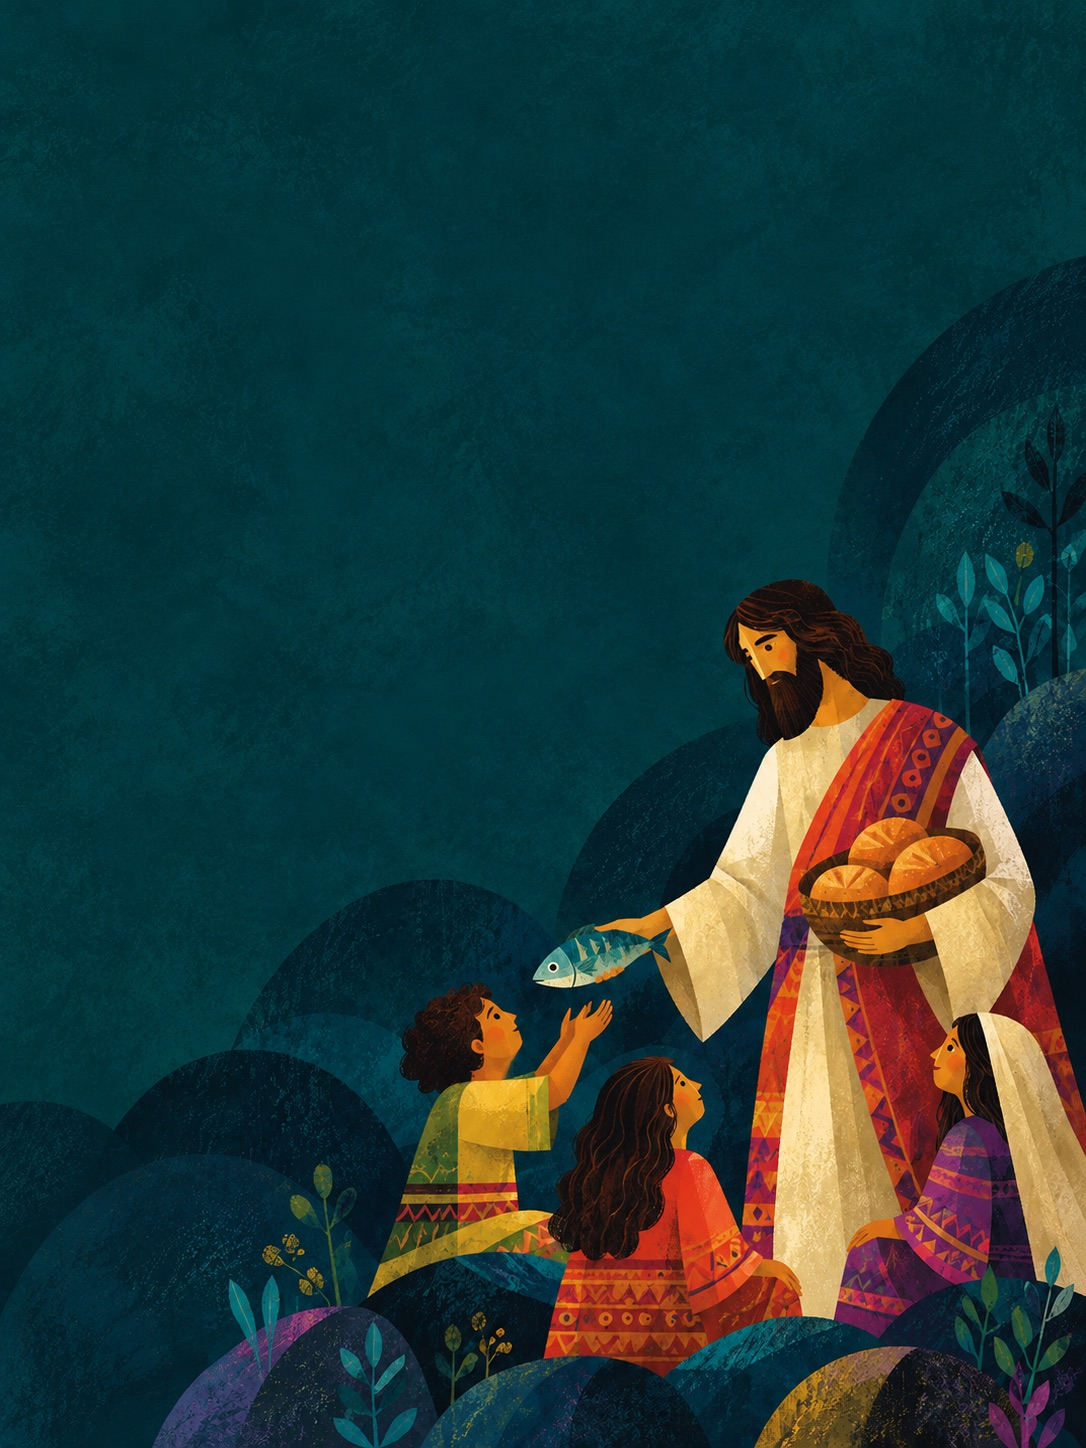
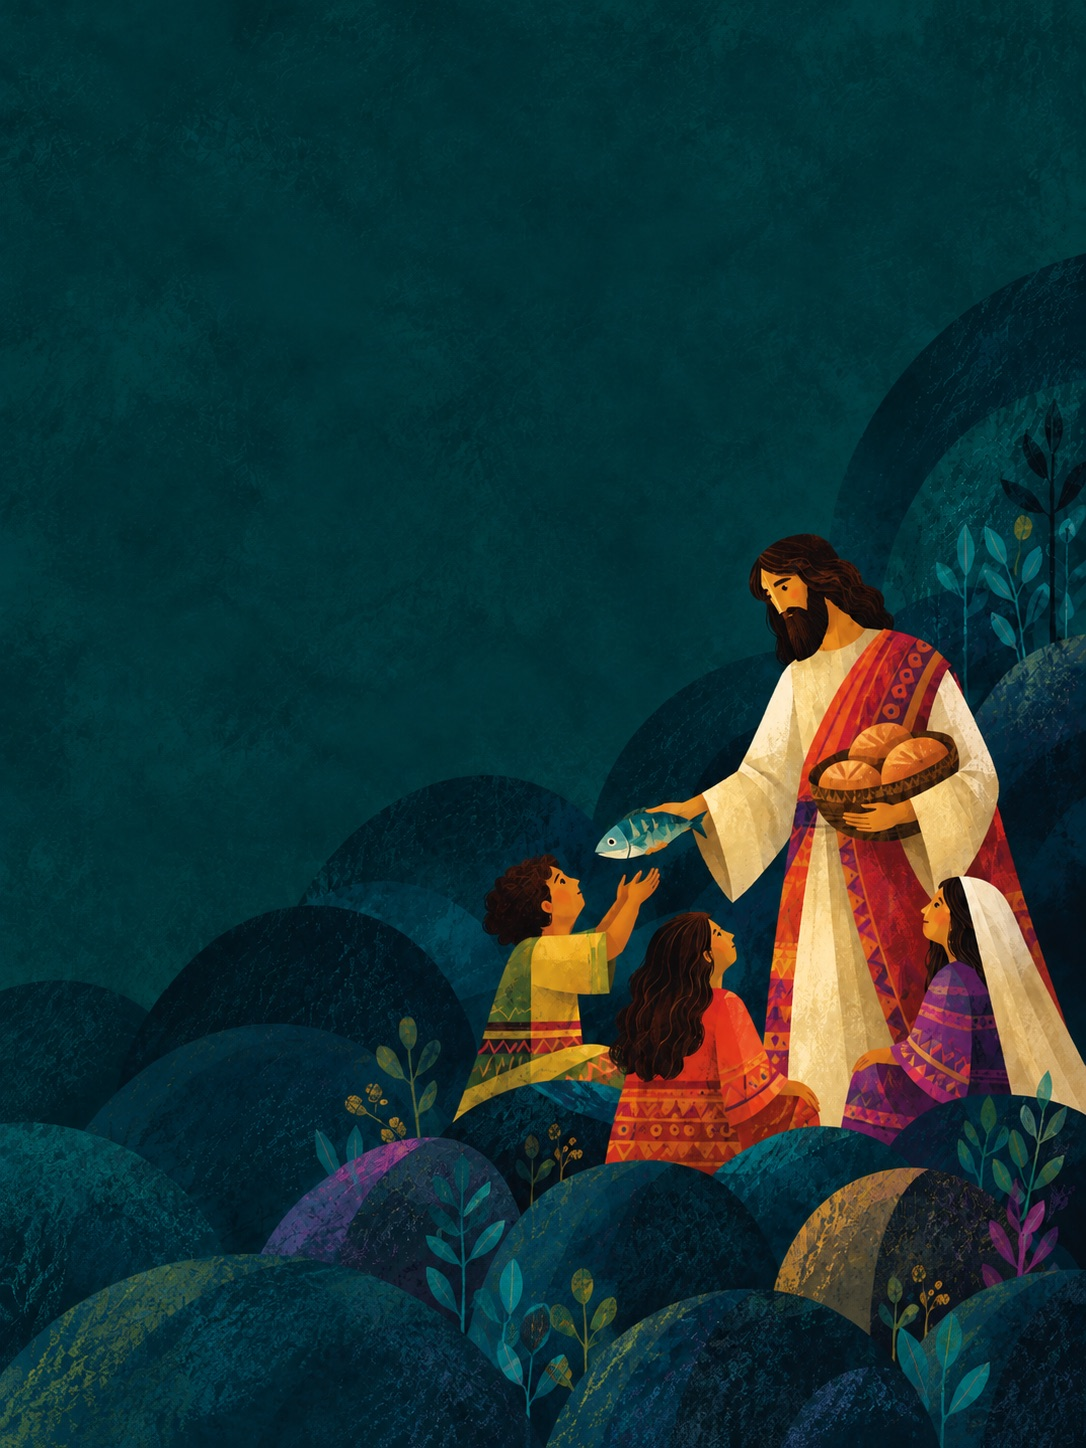
upd gospelCard title

diff --git a/frontend/src/styles/pages.css b/frontend/src/styles/pages.css
@@ -17,7 +17,8 @@
 .home-schedule { min-width: 0; }
 
 /* Фон блока «Евангелие»: широкая картинка на планшете, вертикальная — на десктопе и телефоне.
-   Картинка сама тёмная, без затемнения. Текст сверху слева, Иисус с детьми внизу справа — картинка прижата к низу. */
+   Картинка сама тёмная, без затемнения. Подпись сверху слева, Иисус с детьми посередине справа,
+   вопрос внизу на холмах — картинка прижата к низу. */
 .home-hero, .home-mobile-hero {
   background-color: #0d2f36;
   background-position: right bottom;
@@ -30,8 +31,19 @@
 @media (min-width: 1081px) {
   .home-hero {
     background-image: url('../assets/gospel-vert.jpg');
-    background-position: center bottom;
+    /* Низкий блок обрезает картинку: срезаем больше пустого неба, чем холмов, чтобы осталась голова Иисуса. */
+    background-position: center 85%;
   }
+}
+/* Вопрос-картинка внизу блока, фон у неё прозрачный. */
+.home-hero-title-img { display: block; width: 100%; max-width: 480px; height: auto; margin-top: auto; padding-top: 20px; }
+/* Вопрос ближе к левому нижнему углу, чем подпись: отступ блока 32px, у картинки — 12px. */
+.home-hero .home-hero-title-img { margin: auto 0 -20px -20px; }
+/* На планшете и телефоне персонажи ближе к левому краю — вопрос уже, чтобы не закрывать детей. */
+@media (max-width: 1080px) {
+  .home-hero .home-hero-title-img { max-width: 300px; }
+  /* На телефоне отступ блока 20px, у картинки — 10px. */
+  .home-mobile-hero .home-hero-title-img { width: 85%; margin: auto 0 -10px -10px; }
 }
 
 /* Строка расписания на главной: главное событие — тёмной плашкой, остальные — с линией сверху. */
@@ -281,7 +293,7 @@
     position: relative;
     border-radius: 24px;
     overflow: hidden;
-    min-height: 440px;
+    min-height: 400px;
     background-image: url('../assets/gospel-hor.jpg');
     color: #fff;
     display: flex;
@@ -290,25 +302,33 @@
     padding: 22px 20px 20px;
   }
 
+  /* Вопрос — внизу блока, на холмах. */
   .home-mobile-hero-title {
+    margin-top: auto;
+    padding-top: 20px;
     font-family: var(--f-head);
     font-weight: 900;
-    font-size: 38px;
+    font-size: 24px;
     line-height: .9;
     letter-spacing: -.03em;
     text-transform: uppercase;
   }
 
   .home-mobile-hero-title span {
+    display: inline-block;
+    margin-top: 2px;
+    font-size: 58px;
+    letter-spacing: -.05em;
     color: var(--c-main);
   }
 
   .home-mobile-hero-text {
-    font: 500 13.5px/1.5 var(--f-body);
-    color: rgba(255,255,255,.8);
+    font: 500 14px/1.45 var(--f-body);
+    color: rgba(255,255,255,.65);
     /* Узкая колонка — чтобы не заходить на Иисуса справа. */
     max-width: 200px;
-    margin: 10px 0 0;
+    margin: 0;
+    text-wrap: balance;
   }
 
   .home-mobile-next {
@@ -380,15 +400,9 @@
 @media (max-width: 640px) {
   .home-mobile-hero {
     background-image: url('../assets/gospel-vert.jpg');
-    /* Масштаб от высоты блока: пустой фон слева и сверху обрезается, Иисус с детьми крупнее,
-       но на любой ширине телефона остаются под текстом. */
-    background-size: auto 122%;
-    background-position: right bottom;
+    /* На узких телефонах картинка шире блока: край слева обрезается, Иисус с детьми крупнее. */
+    background-size: max(100%, 350px) auto;
   }
-}
-/* Шире телефона картинка по высоте уже не закрывает блок по ширине. */
-@media (min-width: 431px) and (max-width: 640px) {
-  .home-mobile-hero { background-size: cover; }
 }
 
 /* Шапка из resources/Mobile Header.html помещается в одну строку примерно с 370px;
@@ -396,9 +410,7 @@
 @media (max-width: 370px) {
   .home-mobile-header { flex-direction: column; align-items: flex-start; gap: 10px; padding-top: 8px; }
   .home-mobile-lang { order: -1; align-self: flex-end; }
-  .home-mobile-hero-title { font-size: 34px; }
-  /* Узкий блок: Иисус ближе к тексту — картинка мельче, чтобы он оказался ниже подписи. */
-  .home-mobile-hero { background-size: auto 106%; }
+  .home-mobile-hero-title span { font-size: 50px; }
 }
 
 @media (max-width: 860px) {

diff --git a/frontend/src/pages/Home.jsx b/frontend/src/pages/Home.jsx
@@ -6,11 +6,14 @@ import ChurchBrand from '../components/ChurchBrand.jsx';
 import ContactsCard from '../components/ContactsCard.jsx';
 import { useChurch } from '../api/church.js';
 import { useEvents } from '../api/events.js';
+import gospelTitle from '../assets/gospel-title.png';
 
 export default function Home() {
   const { events: homeEvents, error: eventsError } = useEvents({ limit: 12 });
   const nextEvent = homeEvents[0];
   const duty = useChurch()?.duty;
+  // Вопрос «Кто такой Иисус?» нарисован картинкой только по-русски, на en/ky — текстом.
+  const titleImage = getLang() === 'ru';
 
   return (
     <div className="home-wrap page-enter container" style={{ paddingLeft: 0, paddingRight: 0, maxWidth: 'var(--content-max)' }}>
@@ -38,13 +41,17 @@ export default function Home() {
         </div>
 
         <Link to="/story/jesus" className="home-mobile-hero">
-          <div className="home-mobile-hero-title">
-            {getLang() === 'ky' ? null : <>{t('Кто такой')}<br /></>}
-            <span>{t('Иисус?')}</span>
-          </div>
           <p className="home-mobile-hero-text">
             Всё началось задолго до сотворения мира. И с тех пор вся история связана с Ним.
           </p>
+          {titleImage ? (
+            <img className="home-hero-title-img" src={gospelTitle} alt="Кто такой Иисус?" />
+          ) : (
+            <div className="home-mobile-hero-title">
+              {getLang() === 'ky' ? null : <>{t('Кто такой')}<br /></>}
+              <span>{t('Иисус?')}</span>
+            </div>
+          )}
         </Link>
 
         {nextEvent && (
@@ -68,7 +75,7 @@ export default function Home() {
         <div className="home-left">
         <div className="home-top-left">
         {/* Евангелие */}
-        {/* Текст сверху, чтобы внизу картинки были видны Иисус и дети. */}
+        {/* Подпись сверху, вопрос внизу на холмах — между ними Иисус с детьми. */}
         <Link
           to="/story/jesus"
           className="home-hero"
@@ -84,16 +91,20 @@ export default function Home() {
             textDecoration: 'none',
           }}
         >
-          <div className="h-display" style={{ fontSize: 28 }}>
-            Кто такой
-            <span style={{ display: 'block', fontWeight: 900, fontSize: 'clamp(44px, 5vw, 72px)', lineHeight: 0.85, letterSpacing: '-.05em', marginTop: 6, color: 'var(--c-main)' }}>
-              Иисус?
-            </span>
-          </div>
           {/* Узкая колонка — чтобы текст не заходил на Иисуса справа. */}
-          <p style={{ font: '500 15px/1.5 var(--f-body)', color: 'rgba(255,255,255,.8)', maxWidth: 240, margin: '14px 0 0' }}>
+          <p style={{ font: '500 16px/1.45 var(--f-body)', color: 'rgba(255,255,255,.65)', maxWidth: 240, margin: 0, textWrap: 'balance' }}>
             Всё началось задолго до сотворения мира. И с тех пор вся история связана с Ним.
           </p>
+          {titleImage ? (
+            <img className="home-hero-title-img" src={gospelTitle} alt="Кто такой Иисус?" />
+          ) : (
+            <div className="h-display" style={{ fontSize: 34, marginTop: 'auto', paddingTop: 24 }}>
+              Кто такой
+              <span style={{ display: 'block', fontWeight: 900, fontSize: 'clamp(56px, 6.5vw, 96px)', lineHeight: 0.85, letterSpacing: '-.05em', marginTop: 4, color: 'var(--c-main)' }}>
+                Иисус?
+              </span>
+            </div>
+          )}
         </Link>
         </div>
 

diff --git a/frontend/src/data/i18nExtra.js b/frontend/src/data/i18nExtra.js
@@ -54,8 +54,6 @@ export const EN_EXTRA = {
   ...storyEN,
   'Рождество': 'Christmas',
   'Пасха': 'Easter',
-  'Кто': 'Who',
-  'такой': 'is',
   'Всё началось задолго до сотворения мира. И с тех пор вся история связана с Ним.': 'It all began before the world was made. Since then, all of history has been tied to Him.',
   'Ближайшее · 28 июня': 'Next · June 28',
   'Большая': 'Bolshaya',
@@ -169,6 +167,7 @@ export const EN_EXTRA = {
 };
 
 export const KY_EXTRA = {
+  'Кто такой Иисус?': 'Иса ким?',
   'Всё началось задолго до сотворения мира. И с тех пор вся история связана с Ним.': 'Баары дүйнө жаратылганга чейин эле башталган. Ошондон бери бүт тарых Аны менен байланыштуу.',
   'Ближайшее · 28 июня': 'Жакынкы · 28-июнь',
   'Большая': 'Большая',
